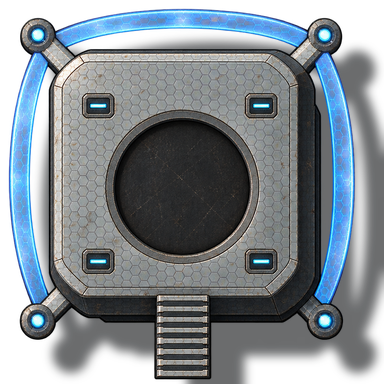
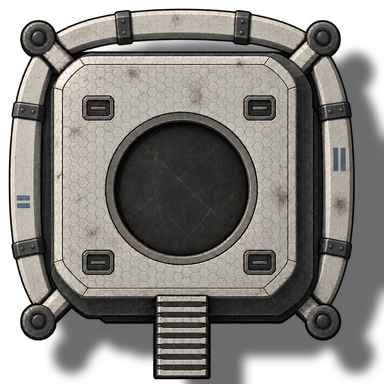
The deployed plinth is matte ceramic: its hard-light arcs are solid shells
An edit of the field-emitter militia hardpoint sheet repaints only the plinth in the deployed works' ceramic, with no
glow or cyan; the heavy head stays the -hex sheet's. The fort-works look suite frames any large post layout through
-Dsnapshot.fortWorks.postVariant, so the hardpoint plinth can be shown.

diff --git a/art-source/ground-turrets/export_ship.py b/art-source/ground-turrets/export_ship.py
@@ -274,6 +274,9 @@ LOOKS["blockwork"] = _family_look("diktat-export", "militia", "midline", hardpoi
                                   dressed=not (HERE / "raw" / "diktat-export-militia-points2.raw.png").exists())
 LOOKS["composite"] = _family_look("field-emitter", "prepared", "hightech", raw_suffix="-hex")
 LOOKS["deployed"] = _family_look("field-emitter", "militia", "hightech", hardpoint="hardpoint-v2", raw_suffix="-hex")
+# The deployed plinth wears its works' matte ceramic (fortworks `deployed-ceramic`): an edit of the -hex sheet that
+# repainted only the plinth, its hard-light arcs made solid ceramic shells. The heavy head stays the -hex sheet's.
+LOOKS["deployed"]["plinth"] = ("field-emitter-militia-hardpoint-v2-ceramic.raw.png",) + LOOKS["deployed"]["plinth"][1:]
 # Looks cut by registering each piece to its own guide (fit_registered) rather than fitting it onto the brutalist
 # head's box: their guides already hold the pivot and muzzle geometry, and stretching a differently proportioned head
 # onto another head's box moved its ring off the pivot (the owner's "heads not fit right", phase B).

diff --git a/src/test/java/com/dillon/starsectormarines/battle/world/gen/bsp/FortWorksLookSnapshotSuite.java b/src/test/java/com/dillon/starsectormarines/battle/world/gen/bsp/FortWorksLookSnapshotSuite.java
@@ -66,8 +66,11 @@ public final class FortWorksLookSnapshotSuite implements SnapshotSuite {
     private static final long SEED = 11L;
     /** Ticks played before the still, so smoke and the guns' first turn have settled. */
     private static final int SETTLE_TICKS = 30;
-    /** The free-standing post's layout: a line of guns behind its parapet or barricade. */
-    private static final String POST_VARIANT = "line-h";
+    /**
+     * The free-standing post's layout: a line of guns behind its parapet or barricade, or the large layout named by
+     * {@code -Dsnapshot.fortWorks.postVariant} (e.g. {@code hardpoint}, to frame a style's plinth).
+     */
+    private static final String POST_VARIANT = System.getProperty("snapshot.fortWorks.postVariant", "line-h");
     /** How long a gate tower's garrison has to walk in and open fire before it is framed. */
     private static final int GARRISON_TICKS = 300;
 
